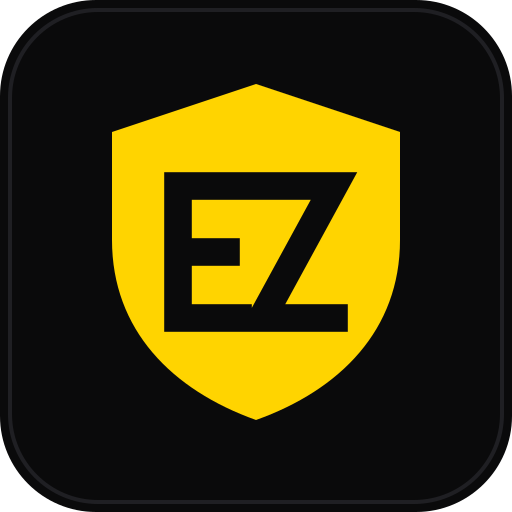
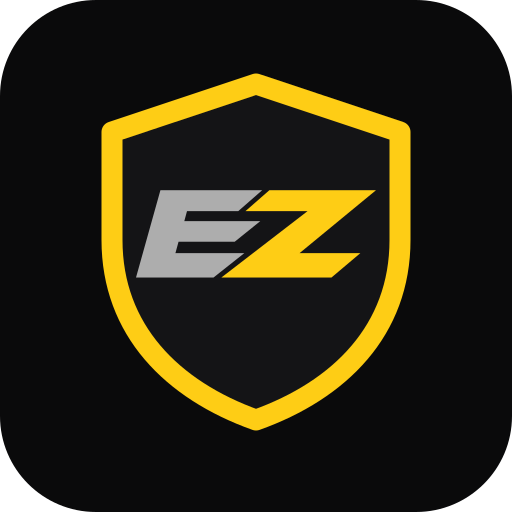
EZ Vault 1.3.0 — initial release
Free, open-source, offline password manager for Windows by EZGGco.

Security
- Master password + 160-bit Secret Key (Emergency Kit), scrypt 256 MB, AES-256-GCM
- Secret Key locked to the Windows account with DPAPI
- "Require master password" items; API keys protected by default
- Re-auth for exports, Emergency Kit and lowering protections
- Brute-force lockout, auto-lock, clipboard auto-clear, streamer mode
- App window has no network access; Electron fuses and anti-debug in builds

Features
- Logins, API keys, secure notes, folders, favorites, search
- 2FA codes, including Steam Guard
- Password and passphrase generator
- Security check (weak, reused, old passwords, clipboard history)
- Automatic encrypted backups with one-click restore
- Trash with undo, CSV import/export, vault reset
- Auto-updates from GitHub Releases (SHA-512 verified)

See CHANGELOG.md and SECURITY.md.

Changed region(s): [[0.1875, 0.125, 0.8125, 0.8438]]

diff --git a/renderer/styles.css b/renderer/styles.css
@@ -10,10 +10,11 @@
   --text: #ececee;
   --muted: #8b8b92;
   --dim: #5d5d64;
-  --y: #ffd400;
-  --y-hover: #ffe04a;
-  --y-soft: rgba(255, 212, 0, 0.1);
-  --y-line: rgba(255, 212, 0, 0.35);
+  --y: #FECD15;          /* official EZGGco yellow */
+  --y-hover: #ffd94a;
+  --y-soft: rgba(254, 205, 21, 0.1);
+  --y-line: rgba(254, 205, 21, 0.35);
+  --ez-grey: #ADADAD;    /* official EZGGco grey */
   --red: #ff5a52;
   --red-soft: rgba(255, 90, 82, 0.1);
   --orange: #ff9f1a;
@@ -59,8 +60,9 @@ kbd {
 ::-webkit-scrollbar-track { background: transparent; }
 
 /* ---------- logo ---------- */
-.logo-shield { fill: none; stroke: var(--y); stroke-width: 4; stroke-linejoin: round; }
-.logo-ez { fill: none; stroke: var(--text); stroke-width: 4.2; stroke-linecap: square; stroke-linejoin: miter; }
+.logo-shield { fill: #141416; stroke: var(--y); stroke-width: 3.5; stroke-linejoin: round; }
+.logo-e { fill: #ADADAD; }
+.logo-z { fill: var(--y); }
 
 /* ---------- titlebar ---------- */
 .titlebar {
@@ -166,7 +168,7 @@ select.input option { background: var(--panel2); }
 #lock {
   display: flex; flex-direction: column; align-items: center; justify-content: center; gap: 22px;
   background:
-    radial-gradient(ellipse 60% 50% at 50% 42%, rgba(255,212,0,.06), transparent 70%),
+    radial-gradient(ellipse 60% 50% at 50% 42%, rgba(254,205,21,.06), transparent 70%),
     linear-gradient(rgba(255,255,255,.028) 1px, transparent 1px) 0 0 / 44px 44px,
     linear-gradient(90deg, rgba(255,255,255,.028) 1px, transparent 1px) 0 0 / 44px 44px,
     var(--bg);
@@ -186,7 +188,7 @@ select.input option { background: var(--panel2); }
 .corner.tr { top: -1px; right: -1px; border-top-width: 2px; border-right-width: 2px; }
 .corner.bl { bottom: -1px; left: -1px; border-bottom-width: 2px; border-left-width: 2px; }
 .corner.br { bottom: -1px; right: -1px; border-bottom-width: 2px; border-right-width: 2px; }
-.lock-logo .logo-big { width: 68px; height: 68px; filter: drop-shadow(0 0 18px rgba(255,212,0,.25)); }
+.lock-logo .logo-big { width: 88px; height: 88px; filter: drop-shadow(0 0 18px rgba(254,205,21,.25)); }
 .lock-title { font: 600 26px var(--head); letter-spacing: .2em; margin: 14px 0 2px; }
 .lock-title b { color: var(--y); }
 .lock-sub { margin: 0 0 22px; color: var(--muted); font: 500 12px var(--head); letter-spacing: .12em; text-transform: uppercase; }
@@ -466,7 +468,7 @@ select.input option { background: var(--panel2); }
 
 /* updates */
 .tb-update { -webkit-app-region: no-drag; display: inline-flex; align-items: center; gap: 7px; margin-left: auto; margin-right: 10px; height: 24px; padding: 0 10px; border-radius: 4px; border: 1px solid var(--y-line); background: var(--y-soft); color: var(--y); font: 600 10.5px var(--head); letter-spacing: .1em; text-transform: uppercase; cursor: pointer; }
-.tb-update:hover { background: rgba(255,212,0,.18); }
+.tb-update:hover { background: rgba(254,205,21,.18); }
 .tb-update:not(.hidden) ~ .titlebar-status { margin-left: 0; }
 .upd-line { margin-top: 2px; }
 .upd-err { color: var(--orange) !important; }

diff --git a/renderer/app.js b/renderer/app.js
@@ -443,7 +443,8 @@ async function showKit(secretKey, { first = false, upgraded = false } = {}) {
 function bigLogo() {
   const svg = el('svg', { viewBox: '0 0 64 64', class: 'logo-big', 'aria-hidden': 'true' });
   svg.append(el('path', { class: 'logo-shield', d: 'M32 4 L56 12 V30 C56 45 46 55 32 60 C18 55 8 45 8 30 V12 Z' }));
-  svg.append(el('path', { class: 'logo-ez', d: 'M29 21 H19 V43 H29 M19 32 H27 M33 21 H45 L33 43 H45' }));
+  svg.append(el('path', { class: 'logo-e', d: 'M16.07 21.7 L33.03 21.7 L29.04 25.19 L20.5 25.19 L20.05 26.86 L32.71 26.86 L28.45 30.29 L19.09 30.29 L18.57 32.19 L30.05 32.19 L24.91 36.26 L12 36.26 Z' }));
+  svg.append(el('path', { class: 'logo-z', d: 'M34.23 21.7 L52 21.7 L39.26 32.19 L49.39 32.19 L44.57 36.26 L26.22 36.26 L40.59 25.19 L30.24 25.19 Z' }));
   return svg;
 }
 

diff --git a/renderer/index.html b/renderer/index.html
@@ -11,7 +11,8 @@
     <div class="brand">
       <svg class="logo" viewBox="0 0 64 64" aria-hidden="true">
         <path class="logo-shield" d="M32 4 L56 12 V30 C56 45 46 55 32 60 C18 55 8 45 8 30 V12 Z"/>
-        <path class="logo-ez" d="M29 21 H19 V43 H29 M19 32 H27 M33 21 H45 L33 43 H45"/>
+        <path class="logo-e" d="M16.07 21.7 L33.03 21.7 L29.04 25.19 L20.5 25.19 L20.05 26.86 L32.71 26.86 L28.45 30.29 L19.09 30.29 L18.57 32.19 L30.05 32.19 L24.91 36.26 L12 36.26 Z"/>
+        <path class="logo-z" d="M34.23 21.7 L52 21.7 L39.26 32.19 L49.39 32.19 L44.57 36.26 L26.22 36.26 L40.59 25.19 L30.24 25.19 Z"/>
       </svg>
       <span class="brand-name">EZ <b>VAULT</b></span>
       <span class="brand-by">by EZGGco</span>

diff --git a/CHANGELOG.md b/CHANGELOG.md
@@ -6,6 +6,7 @@
   - downloads in the background, verified with SHA-512
   - an "Update ready · Restart" badge in the title bar
   - a Settings → Updates card, with a toggle to turn it off
+- New logo: the official EZGGco **EZ** mark in a shield, used for the app icon, title bar and lock screen. The accent color now matches the official brand yellow, #FECD15.
 - The updater runs only in the main process, in its own session. The app window is still fully blocked from the network.
 
 ## 1.2.1
